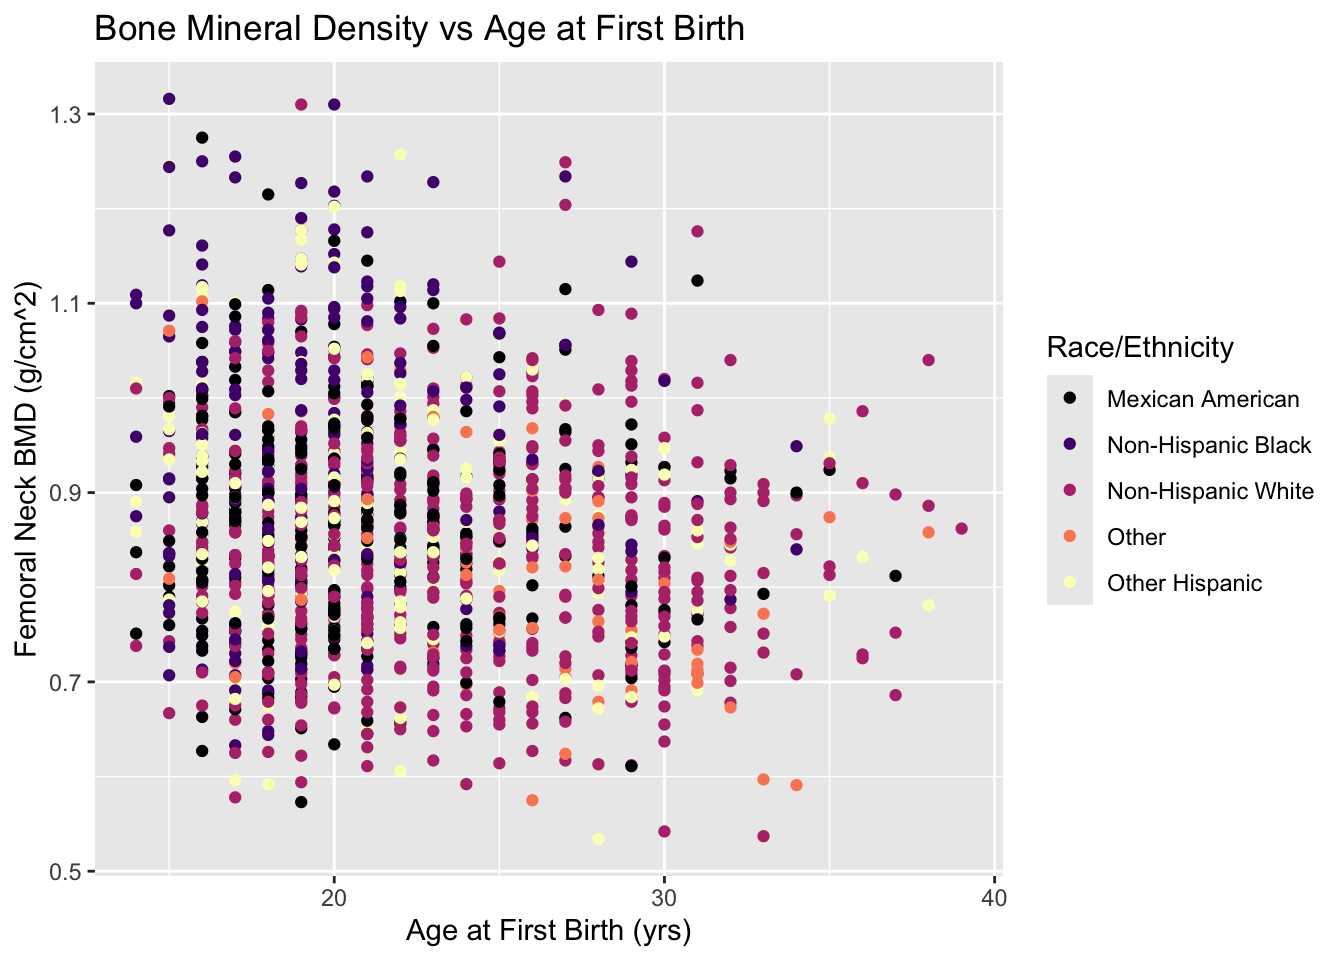
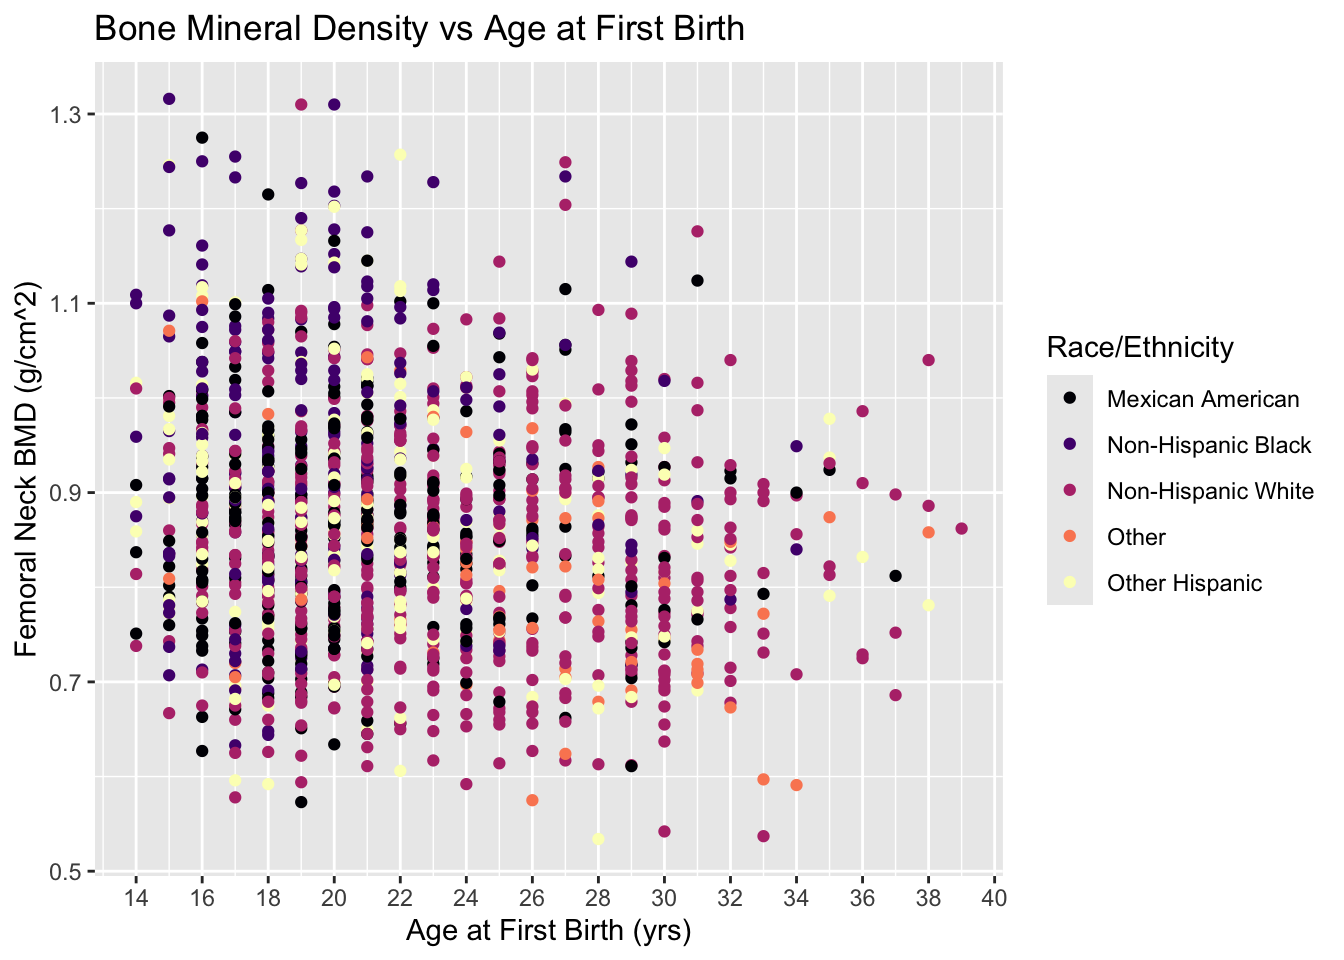
Build site.

diff --git a/docs/analysis.html b/docs/analysis.html
@@ -513,15 +513,15 @@ project makes it easier to run your code on other machines.</p>
 <div class="panel panel-default">
 <div class="panel-heading">
 <p class="panel-title">
-<a data-toggle="collapse" data-parent="#workflowr-checks" href="#strongRepositoryversionstrongahrefhttpsgithubcomcalliquireafbploaaba2025treefcd160f6fed82b19329040d783ac2d5875d1f076targetblankfcd160fa">
+<a data-toggle="collapse" data-parent="#workflowr-checks" href="#strongRepositoryversionstrongahrefhttpsgithubcomcalliquireafbploaaba2025tree73291b31892f88c47cbea03ec43201982a46648dtargetblank73291b3a">
 <span class="glyphicon glyphicon-ok text-success"
 aria-hidden="true"></span> <strong>Repository version:</strong>
-<a href="https://github.com/calliquire/afb_plo_aaba_2025/tree/fcd160f6fed82b19329040d783ac2d5875d1f076" target="_blank">fcd160f</a>
+<a href="https://github.com/calliquire/afb_plo_aaba_2025/tree/73291b31892f88c47cbea03ec43201982a46648d" target="_blank">73291b3</a>
 </a>
 </p>
 </div>
 <div
[2 lines of base64/hex data omitted]
 class="panel-collapse collapse">
 <div class="panel-body">
 <p>
@@ -531,7 +531,7 @@ reproducibility.
 </p>
 <p>
 The results in this page were generated with repository version
-<a href="https://github.com/calliquire/afb_plo_aaba_2025/tree/fcd160f6fed82b19329040d783ac2d5875d1f076" target="_blank">fcd160f</a>.
+<a href="https://github.com/calliquire/afb_plo_aaba_2025/tree/73291b31892f88c47cbea03ec43201982a46648d" target="_blank">73291b3</a>.
 See the <em>Past versions</em> tab to see a history of the changes made
 to the R Markdown and HTML files.
 </p>
@@ -594,6 +594,40 @@ Message
 </tr>
 </thead>
 <tbody>
+<tr>
+<td>
+Rmd
+</td>
+<td>
+<a href="https://github.com/calliquire/afb_plo_aaba_2025/blob/73291b31892f88c47cbea03ec43201982a46648d/analysis/analysis.Rmd" target="_blank">73291b3</a>
+</td>
+<td>
+Calli Quire
+</td>
+<td>
+2025-02-24
+</td>
+<td>
+Update analysis.Rmd
+</td>
+</tr>
+<tr>
+<td>
+html
+</td>
+<td>
+<a href="https://rawcdn.githack.com/calliquire/afb_plo_aaba_2025/bad62cb1b521fad8177aa802d2e0273f389c94b3/docs/analysis.html" target="_blank">bad62cb</a>
+</td>
+<td>
+Calli Quire
+</td>
+<td>
+2025-02-24
+</td>
+<td>
+Build site.
+</td>
+</tr>
 <tr>
 <td>
 Rmd
@@ -1270,31 +1304,31 @@ more actual analysis
 <h2>Download, install, run relevant packages</h2>
 <pre><code>
 The downloaded binary packages are in
-    /var/folders/ps/8glpgwws46q79hzcgj61tlsr0000gn/T//Rtmp0qyNMs/downloaded_packages</code></pre>
+    /var/folders/ps/8glpgwws46q79hzcgj61tlsr0000gn/T//Rtmp6aCbwM/downloaded_packages</code></pre>
 <pre><code>
 The downloaded binary packages are in
-    /var/folders/ps/8glpgwws46q79hzcgj61tlsr0000gn/T//Rtmp0qyNMs/downloaded_packages</code></pre>
+    /var/folders/ps/8glpgwws46q79hzcgj61tlsr0000gn/T//Rtmp6aCbwM/downloaded_packages</code></pre>
 <pre><code>
 The downloaded binary packages are in
-    /var/folders/ps/8glpgwws46q79hzcgj61tlsr0000gn/T//Rtmp0qyNMs/downloaded_packages</code></pre>
+    /var/folders/ps/8glpgwws46q79hzcgj61tlsr0000gn/T//Rtmp6aCbwM/downloaded_packages</code></pre>
 <pre><code>
 The downloaded binary packages are in
-    /var/folders/ps/8glpgwws46q79hzcgj61tlsr0000gn/T//Rtmp0qyNMs/downloaded_packages</code></pre>
+    /var/folders/ps/8glpgwws46q79hzcgj61tlsr0000gn/T//Rtmp6aCbwM/downloaded_packages</code></pre>
 <pre><code>
 The downloaded binary packages are in
-    /var/folders/ps/8glpgwws46q79hzcgj61tlsr0000gn/T//Rtmp0qyNMs/downloaded_packages</code></pre>
+    /var/folders/ps/8glpgwws46q79hzcgj61tlsr0000gn/T//Rtmp6aCbwM/downloaded_packages</code></pre>
 <pre><code>
 The downloaded binary packages are in
-    /var/folders/ps/8glpgwws46q79hzcgj61tlsr0000gn/T//Rtmp0qyNMs/downloaded_packages</code></pre>
+    /var/folders/ps/8glpgwws46q79hzcgj61tlsr0000gn/T//Rtmp6aCbwM/downloaded_packages</code></pre>
 <pre><code>
 The downloaded binary packages are in
-    /var/folders/ps/8glpgwws46q79hzcgj61tlsr0000gn/T//Rtmp0qyNMs/downloaded_packages</code></pre>
+    /var/folders/ps/8glpgwws46q79hzcgj61tlsr0000gn/T//Rtmp6aCbwM/downloaded_packages</code></pre>
 <pre><code>
 The downloaded binary packages are in
-    /var/folders/ps/8glpgwws46q79hzcgj61tlsr0000gn/T//Rtmp0qyNMs/downloaded_packages</code></pre>
+    /var/folders/ps/8glpgwws46q79hzcgj61tlsr0000gn/T//Rtmp6aCbwM/downloaded_packages</code></pre>
 <pre><code>
 The downloaded binary packages are in
-    /var/folders/ps/8glpgwws46q79hzcgj61tlsr0000gn/T//Rtmp0qyNMs/downloaded_packages</code></pre>
+    /var/folders/ps/8glpgwws46q79hzcgj61tlsr0000gn/T//Rtmp6aCbwM/downloaded_packages</code></pre>
 <pre><code>
 Attaching package: &#39;dplyr&#39;</code></pre>
 <pre><code>The following objects are masked from &#39;package:stats&#39;:
@@ -1542,7 +1576,7 @@ F-statistic: 34.65 on 1 and 1340 DF,  p-value: 4.988e-09</code></pre>
 # scatter plot 
 lm_1 &lt;- 
   ggplot(df, aes(x = AFB, y = BMD, col = RETH)) + 
-  geom_point() + ggtitle(&quot;Bone Mineral Density vs Age at First Birth&quot;) + ylab(&quot;Femoral Neck BMD (g/cm^2)&quot;) + xlab(&quot;Age at First Birth (yrs)&quot;) + scale_color_viridis(&quot;Race/Ethnicity&quot;, discrete = TRUE, option = &quot;A&quot;)
+  geom_point() + ggtitle(&quot;Bone Mineral Density vs Age at First Birth&quot;) + ylab(&quot;Femoral Neck BMD (g/cm^2)&quot;) + xlab(&quot;Age at First Birth (yrs)&quot;) + scale_color_viridis(&quot;Race/Ethnicity&quot;, discrete = TRUE, option = &quot;A&quot;) + scale_x_continuous(breaks = seq(0, 40, by = 2))
 
 # view
 print(lm_1)</code></pre>
@@ -1571,6 +1605,17 @@ Date
 <tbody>
 <tr>
 <td>
+<a href="https://github.com/calliquire/afb_plo_aaba_2025/blob/bad62cb1b521fad8177aa802d2e0273f389c94b3/docs/figure/analysis.Rmd/unnamed-chunk-19-1.png" target="_blank">bad62cb</a>
+</td>
+<td>
+Calli Quire
+</td>
+<td>
+2025-02-24
+</td>
+</tr>
+<tr>
+<td>
 <a href="https://github.com/calliquire/afb_plo_aaba_2025/blob/b2e9e5d2113c25f5c716e1b57856c84719aafbf0/docs/figure/analysis.Rmd/unnamed-chunk-19-1.png" target="_blank">b2e9e5d</a>
 </td>
 <td>
@@ -1595,11 +1640,11 @@ Calli Quire
 </table>
 </div>
 </div>
-<pre class="r"><code># scatter plot w/ mean range (across all race/ethnicities)
+<pre class="r"><code># scatter plot w/ mean range (across all race/ethnicity) 
 lm_1a &lt;- 
   ggplot(df, aes(x = AFB, y = BMD, col = RETH)) + 
   geom_point() + ggtitle(&quot;Bone Mineral Density vs Age at First Birth&quot;) + ylab(&quot;Femoral Neck BMD (g/cm^2)&quot;) + xlab(&quot;Age at First Birth (yrs)&quot;) + scale_color_viridis(&quot;Race/Ethnicity&quot;, discrete = TRUE, option = &quot;A&quot;) + annotate(&quot;rect&quot;, xmin = -Inf, xmax = Inf, ymin = 0.7, ymax = 1,
-           alpha = 0, color = &quot;blue&quot;)
+           alpha = 0, color = &quot;blue&quot;) + scale_x_continuous(breaks = seq(0, 40, by = 2))
 
 # view
 print(lm_1a)</code></pre>
@@ -1626,6 +1671,17 @@ Date
 </tr>
 </thead>
 <tbody>
+<tr>
+<td>
+<a href="https://github.com/calliquire/afb_plo_aaba_2025/blob/bad62cb1b521fad8177aa802d2e0273f389c94b3/docs/figure/analysis.Rmd/unnamed-chunk-19-2.png" target="_blank">bad62cb</a>
+</td>
+<td>
+Calli Quire
+</td>
+<td>
+2025-02-24
+</td>
+</tr>
 <tr>
 <td>
 <a href="https://github.com/calliquire/afb_plo_aaba_2025/blob/b2e9e5d2113c25f5c716e1b57856c84719aafbf0/docs/figure/analysis.Rmd/unnamed-chunk-19-2.png" target="_blank">b2e9e5d</a>
@@ -1714,6 +1770,17 @@ Date
 <tbody>
 <tr>
 <td>
+<a href="https://github.com/calliquire/afb_plo_aaba_2025/blob/bad62cb1b521fad8177aa802d2e0273f389c94b3/docs/figure/analysis.Rmd/unnamed-chunk-20-1.png" target="_blank">bad62cb</a>
+</td>
+<td>
+Calli Quire
+</td>
+<td>
+2025-02-24
+</td>
+</tr>
+<tr>
+<td>
 <a href="https://github.com/calliquire/afb_plo_aaba_2025/blob/b2e9e5d2113c25f5c716e1b57856c84719aafbf0/docs/figure/analysis.Rmd/unnamed-chunk-20-1.png" target="_blank">b2e9e5d</a>
 </td>
 <td>
@@ -1771,6 +1838,17 @@ Date
 </tr>
 </thead>
 <tbody>
+<tr>
+<td>
+<a href="https://github.com/calliquire/afb_plo_aaba_2025/blob/bad62cb1b521fad8177aa802d2e0273f389c94b3/docs/figure/analysis.Rmd/unnamed-chunk-20-2.png" target="_blank">bad62cb</a>
+</td>
+<td>
+Calli Quire
+</td>
+<td>
+2025-02-24
+</td>
+</tr>
 <tr>
 <td>
 <a href="https://github.com/calliquire/afb_plo_aaba_2025/blob/b2e9e5d2113c25f5c716e1b57856c84719aafbf0/docs/figure/analysis.Rmd/unnamed-chunk-20-2.png" target="_blank">b2e9e5d</a>
@@ -1842,6 +1920,17 @@ Date
 <tbody>
 <tr>
 <td>
+<a href="https://github.com/calliquire/afb_plo_aaba_2025/blob/bad62cb1b521fad8177aa802d2e0273f389c94b3/docs/figure/analysis.Rmd/unnamed-chunk-20-3.png" target="_blank">bad62cb</a>
+</td>
+<td>
+Calli Quire
+</td>
+<td>
+2025-02-24
+</td>
+</tr>
+<tr>
+<td>
 <a href="https://github.com/calliquire/afb_plo_aaba_2025/blob/b2e9e5d2113c25f5c716e1b57856c84719aafbf0/docs/figure/analysis.Rmd/unnamed-chunk-20-3.png" target="_blank">b2e9e5d</a>
 </td>
 <td>
@@ -1904,6 +1993,17 @@ Date
 </tr>
 </thead>
 <tbody>
+<tr>
+<td>
+<a href="https://github.com/calliquire/afb_plo_aaba_2025/blob/bad62cb1b521fad8177aa802d2e0273f389c94b3/docs/figure/analysis.Rmd/unnamed-chunk-21-1.png" target="_blank">bad62cb</a>
+</td>
+<td>
+Calli Quire
+</td>
+<td>
+2025-02-24
+</td>
+</tr>
 <tr>
 <td>
 <a href="https://github.com/calliquire/afb_plo_aaba_2025/blob/b2e9e5d2113c25f5c716e1b57856c84719aafbf0/docs/figure/analysis.Rmd/unnamed-chunk-21-1.png" target="_blank">b2e9e5d</a>
@@ -1973,6 +2073,17 @@ Date
 </tr>
 </thead>
 <tbody>
+<tr>
+<td>
+<a href="https://github.com/calliquire/afb_plo_aaba_2025/blob/bad62cb1b521fad8177aa802d2e0273f389c94b3/docs/figure/analysis.Rmd/unnamed-chunk-21-2.png" target="_blank">bad62cb</a>
+</td>
+<td>
+Calli Quire
+</td>
+<td>
+2025-02-24
+</td>
+</tr>
 <tr>
 <td>
 <a href="https://github.com/calliquire/afb_plo_aaba_2025/blob/b2e9e5d2113c25f5c716e1b57856c84719aafbf0/docs/figure/analysis.Rmd/unnamed-chunk-21-2.png" target="_blank">b2e9e5d</a>
